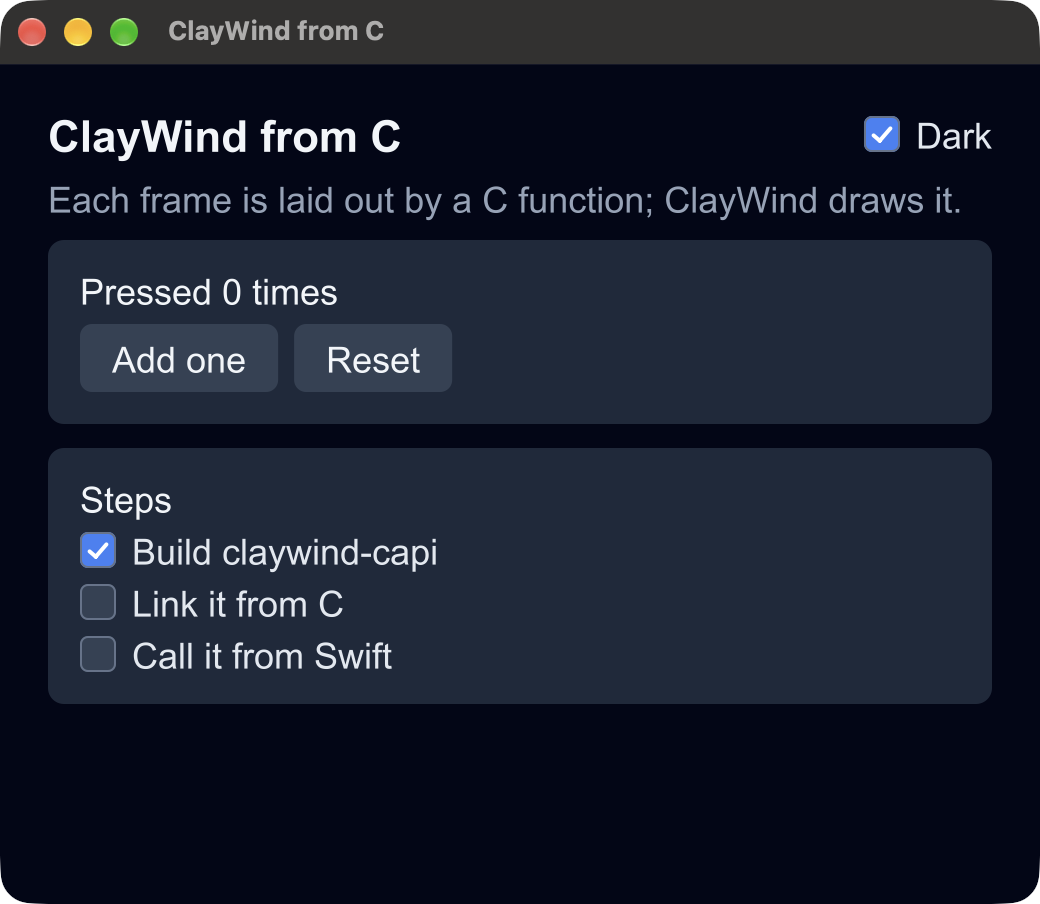
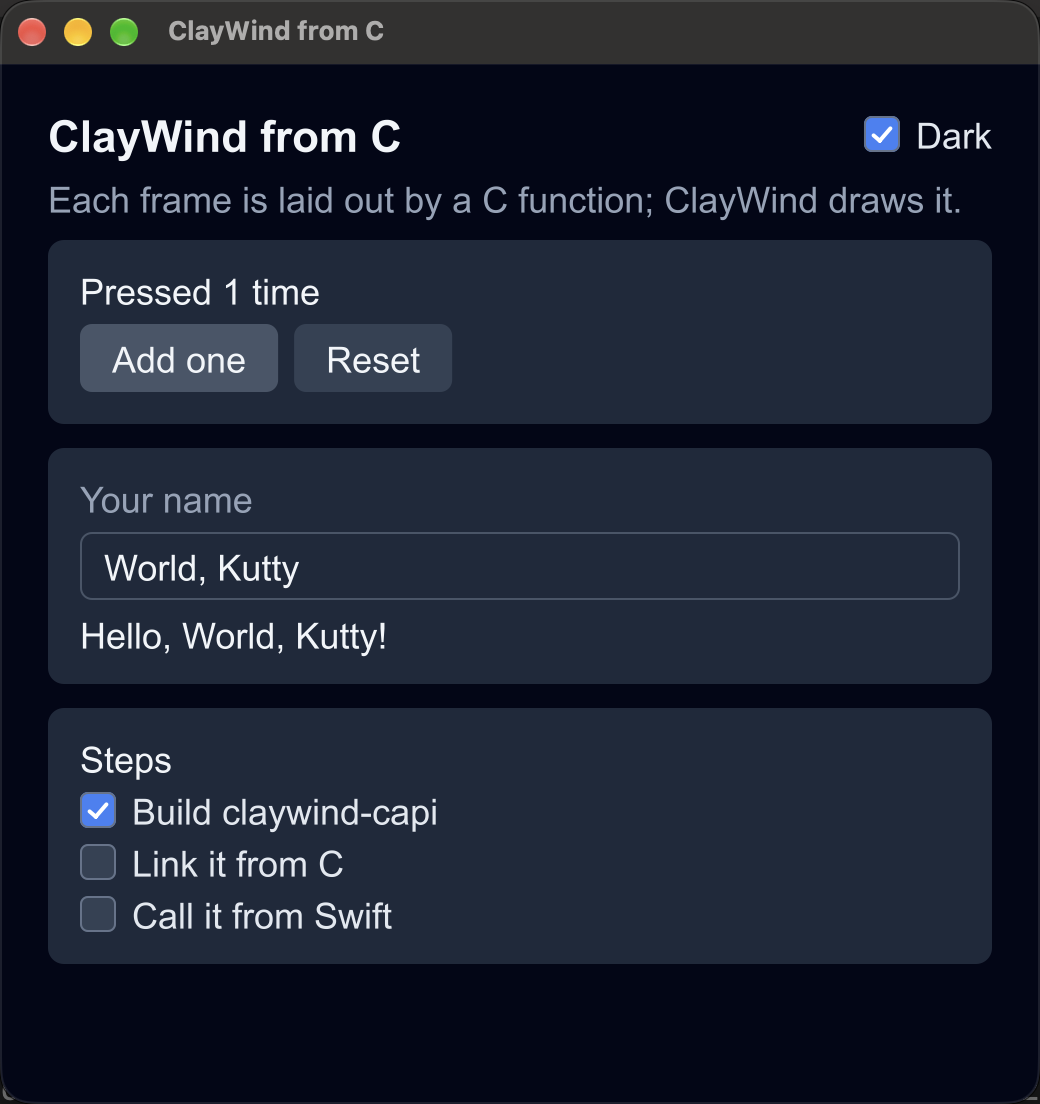
claywind-capi: a text field over the host's buffer; one more frame after a control's call reports something
claywind_text_field (API 2.0.0): the host's UTF-8 text in its own buffer; ClayWind keeps the caret, the selection
and a copy it edits, by the field's id. A user's change reaches the buffer in the next call, cut at a character to
fit, and the call returns true; a change the host makes itself is what the field shows.

A frame whose control calls reported something asks for one more frame: a host that lays out what a control changes
before the control (the example's count above its button) showed the old value until something else redrew.

Checked on macOS with real mouse and key events (the example's name field, its greeting and the count); 195 tests
pass.

Changed region(s): [[0.0, 0.0, 1.0, 1.0]]

diff --git a/claywind-capi/include/claywind.h b/claywind-capi/include/claywind.h
@@ -19,8 +19,8 @@
  *
  * The model is immediate mode. ClayWind calls the frame function whenever the window needs a new frame (an input, an
  * animation, claywind_request_frame), and the function lays out the whole window from the program's state. A control's
- * call returns what the user did with it: true when a button was pressed, and a checkbox's new state. That result
- * arrives in the frame after the one the user acted in, which ClayWind runs at once.
+ * call returns what the user did with it: true when a button was pressed, a checkbox's new state, a text field's new
+ * text. That result arrives in the frame after the one the user acted in, which ClayWind runs at once.
  *
  * Text is UTF-8, given as a pointer and a length; the _s macros take a NUL-terminated string. ClayWind copies what it
  * is given: nothing passed in needs to outlive the call. A control's id names it among the frame's controls and must
@@ -46,7 +46,7 @@ extern "C" {
 #endif
 
 /* The API's version: major * 10000 + minor * 100 + patch; claywind_version() gives the library's. */
-#define CLAYWIND_VERSION 100
+#define CLAYWIND_VERSION 200
 
 /* What claywind_run returns. */
 #define CLAYWIND_CLOSED 0            /* the window was closed */
@@ -87,6 +87,13 @@ bool claywind_button(claywind_frame *frame, const uint8_t *id, size_t id_length,
 bool claywind_checkbox(claywind_frame *frame, const uint8_t *id, size_t id_length, const uint8_t *label,
                        size_t label_length, bool *value);
 
+/* A text field over the program's UTF-8 text: the first *length of capacity bytes at buffer. When the user changed the
+   text in the last frame, the buffer and *length take the new text (cut at a character to fit; no NUL is written) and
+   the call returns true; otherwise it shows the program's text, so the program may change the buffer itself. The
+   caret and selection are ClayWind's. `name` is what a screen reader calls the field. */
+bool claywind_text_field(claywind_frame *frame, const uint8_t *id, size_t id_length, const uint8_t *name,
+                         size_t name_length, uint8_t *buffer, size_t capacity, size_t *length);
+
 /* The window. */
 bool claywind_is_dark(claywind_frame *frame);
 void claywind_set_dark(claywind_frame *frame, bool dark);
@@ -100,6 +107,8 @@ void claywind_request_frame(claywind_frame *frame);
 #define claywind_heading_s(f, text) claywind_heading((f), CLAYWIND_S(text))
 #define claywind_button_s(f, id, label) claywind_button((f), CLAYWIND_S(id), CLAYWIND_S(label))
 #define claywind_checkbox_s(f, id, label, value) claywind_checkbox((f), CLAYWIND_S(id), CLAYWIND_S(label), (value))
+#define claywind_text_field_s(f, id, name, buffer, capacity, length) \
+    claywind_text_field((f), CLAYWIND_S(id), CLAYWIND_S(name), (buffer), (capacity), (length))
 
 #ifdef __cplusplus
 }

diff --git a/claywind-capi/examples/counter.c b/claywind-capi/examples/counter.c
@@ -1,5 +1,6 @@
 /* SPDX-License-Identifier: MIT
- * A ClayWind window from C: a counter, a theme switch and a short list, laid out each frame from the program's state.
+ * A ClayWind window from C: a counter, a theme switch, a greeting typed into a text field and a short list, laid out
+ * each frame from the program's state.
  * Build it with examples/build.sh. */
 #include <stdio.h>
 
@@ -10,6 +11,8 @@ struct state {
     int count;
     bool dark;
     bool done[3];
+    uint8_t name[128];
+    size_t name_length;
 };
 
 static const char *const tasks[3] = {"Build claywind-capi", "Link it from C", "Call it from Swift"};
@@ -40,6 +43,15 @@ static void frame(claywind_frame *f, void *user) {
     claywind_end(f);
 
     claywind_panel(f);
+    claywind_caption_s(f, "Your name");
+    claywind_text_field_s(f, "name", "Your name", s->name, sizeof s->name, &s->name_length);
+    if (s->name_length > 0) {
+        snprintf(text, sizeof text, "Hello, %.*s!", (int)s->name_length, (const char *)s->name);
+        claywind_label_s(f, text);
+    }
+    claywind_end(f);
+
+    claywind_panel(f);
     claywind_label_s(f, "Steps");
     for (int k = 0; k < 3; k++) {
         char id[16];
@@ -59,8 +71,8 @@ int main(int argc, char **argv) {
         fprintf(stderr, "counter: CeeSafe's runtime did not start\n");
         return 1;
     }
-    struct state s = {0, true, {true, false, false}};
-    int32_t result = claywind_run_s("ClayWind from C", 520, 420, frame, &s);
+    struct state s = {0, true, {true, false, false}, "World", 5};
+    int32_t result = claywind_run_s("ClayWind from C", 520, 520, frame, &s);
     if (result != CLAYWIND_CLOSED) {
         fprintf(stderr, "counter: claywind_run stopped (%d)\n", result);
     }

diff --git a/claywind-capi/README.md b/claywind-capi/README.md
@@ -15,13 +15,20 @@ cd claywind-capi
 
 A host calls `claywind_run` with a frame function. ClayWind opens a window, and for each frame calls that function
 with a `claywind_frame`. The function lays out the whole window from the program's state: columns, rows, panels,
-labels, buttons and checkboxes. ClayWind then lays the frame out, draws it and waits for input.
+labels, buttons, checkboxes and text fields. ClayWind then lays the frame out, draws it and waits for input.
 
 The calls are recorded and replayed. ClayWind's `Ui` borrows its memory, and CeeSafe gives C no pointer to a value
 that holds loans. So the frame function's calls are recorded into a `Frame` of plain data (`src/frame.cee`), and
 ClayWind replays them into the `Ui` when the function returns. A consequence for the host is that a control's result
-arrives in the next frame. A button is true in the frame after it was pressed, and a checkbox's new state arrives
-the same way. ClayWind asks for that frame at once, so the delay is about one screen refresh.
+arrives in the next frame. A button is true in the frame after it was pressed, and a checkbox's new state and a text
+field's new text arrive the same way. ClayWind asks for that frame at once, and for one more after it, so what the host
+changed in answer shows even where the frame lays it out before the control (a count above its button). The delay
+is about one screen refresh.
+
+A text field's text stays in the host's buffer (`claywind_text_field`: the buffer, its capacity and the text's
+length). ClayWind keeps the caret and the selection, and a copy of the text it edits; when the user changes the text,
+the next call writes it into the buffer, cut at a character to fit, and returns true. A host may also change the
+buffer itself: the field then shows the host's text.
 `CEESAFE-FINDINGS.md` Q1 records the gap.
 
 ## Linking
@@ -37,8 +44,10 @@ A host:
 
 ## Status
 
-- Checked on macOS: the example builds, opens its window and draws it. `claywind-tests/tests/capi_test.cee` drives
-  recorded frames with a scripted platform: a button press and a checkbox's changes reach the host's next frame,
-  once.
+- Checked on macOS: the example builds, opens its window and draws it; with real mouse and key events, a click in
+  the name field put the caret at its end, typed text reached the C program's buffer and its greeting, and one click
+  on Add one after typing showed the new count. `claywind-tests/tests/capi_test.cee` drives recorded frames with a
+  scripted platform: a button press and a checkbox's changes reach the host's next frame, once; a field's typed text
+  reaches the host's buffer once, the host's own change stands, and text past the buffer is cut at a character.
 - Linux: `examples/build.sh` has a link line, but it has not been run. Windows: no build script yet.
-- Next: a text field; Swift, Kotlin and Rust bindings over this header; an iOS and Android host.
+- Next: Swift, Kotlin and Rust bindings over this header; an iOS and Android host.
